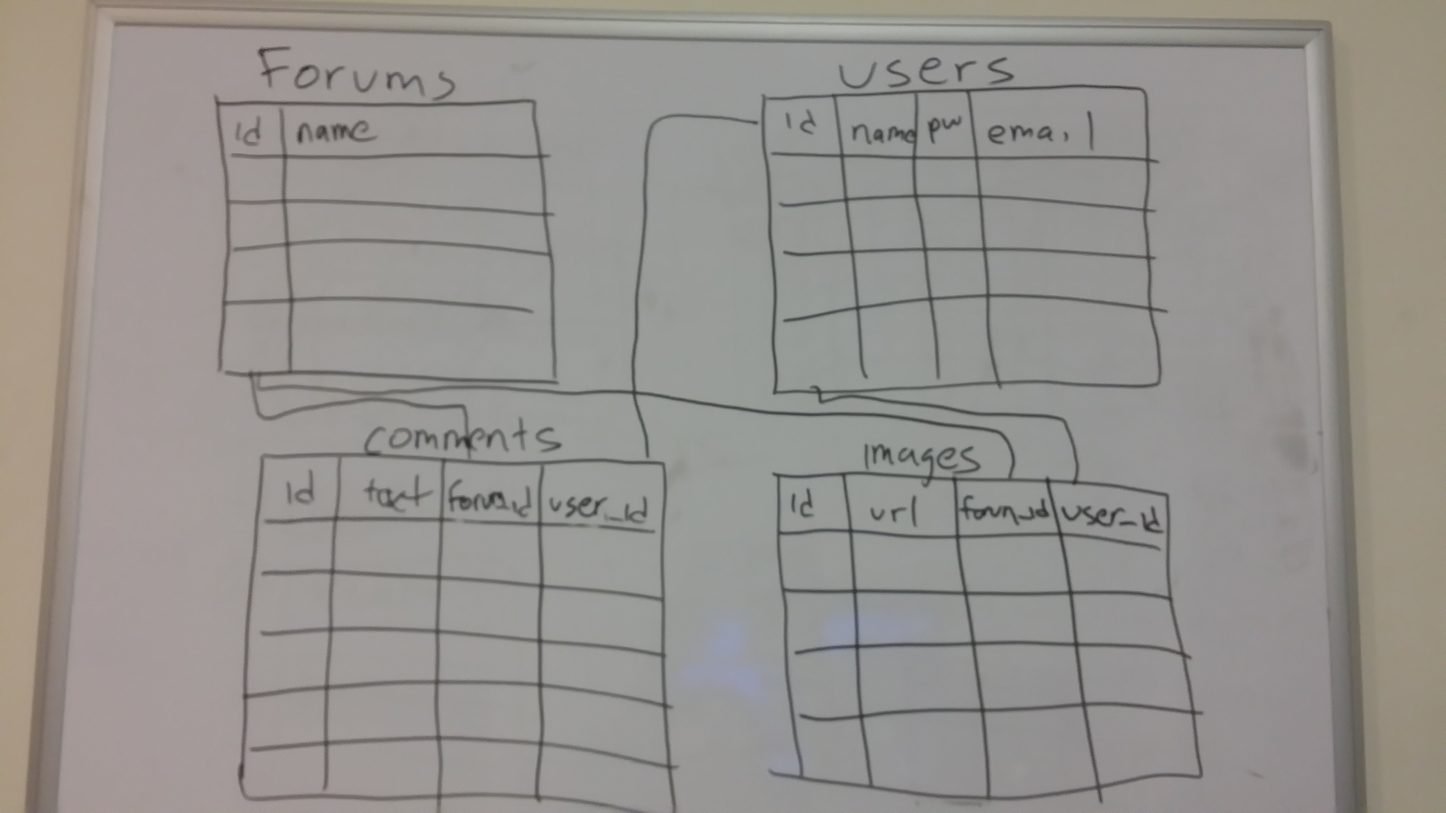
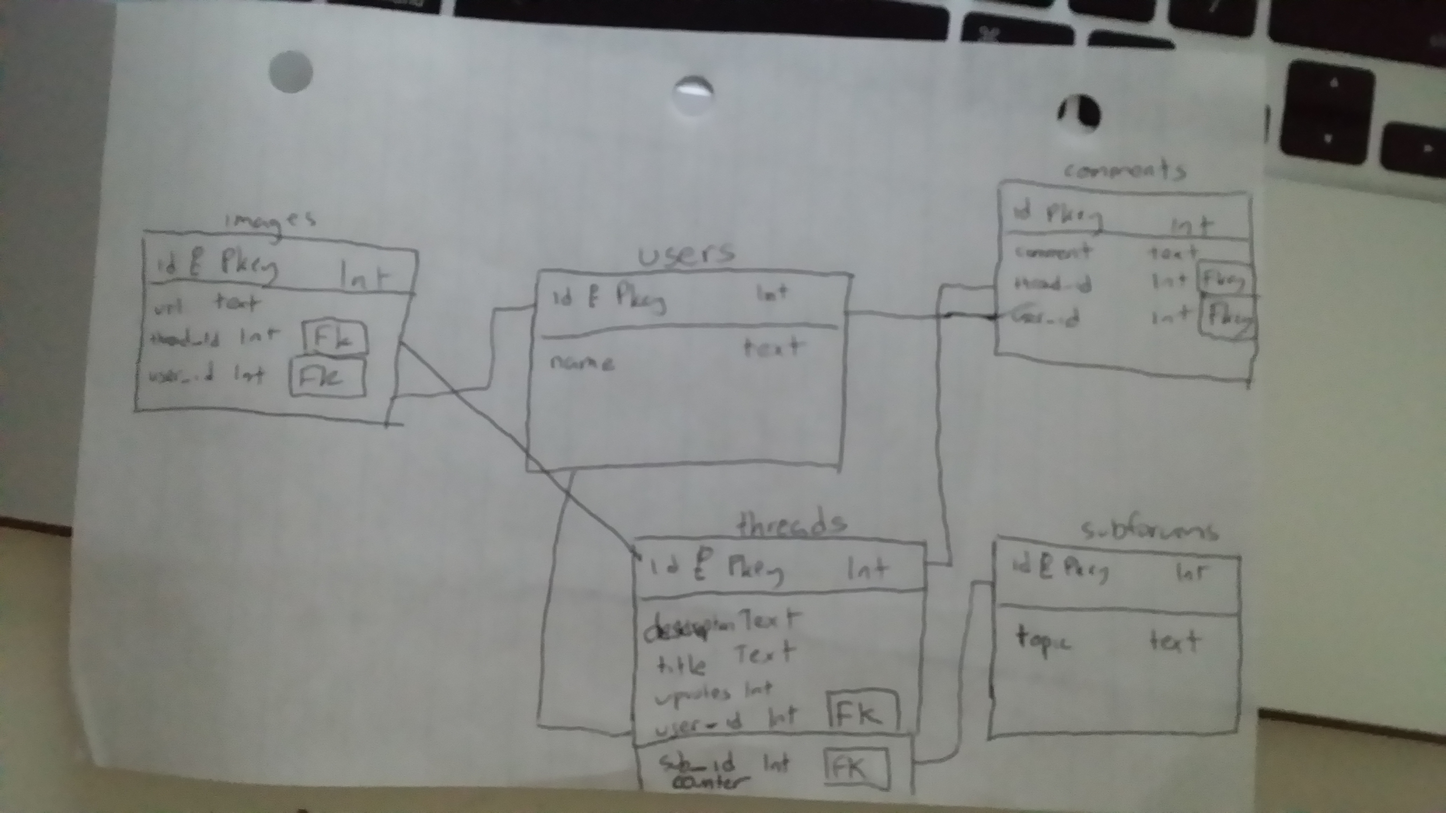
space

diff --git a/public/style.css b/public/style.css
@@ -9,7 +9,6 @@ body{
 	margin-right: auto;
 	margin-top: 5em;
 	background-color: #F3F3F5;
-
 }
 
 .pure-g::after{

diff --git a/README.md b/README.md
@@ -1,6 +1,9 @@
 #Vacation Forum
 
-###This forum is specific to vacation spots.  Any user can create a new thread which will be about a new country and can write comments on existing threads.  Only the master user can edit or delete threads.  There will be a search bar that will search images and users can add the resulting images to a specific forum.  
+###This forum is specific to vacation spots. The forum has subforums which are countries, and threads in each subforums.  Any user can create a new subforum, create a new thread, comment, upvote, add image, and view gallery on each thread.  
+
+
+#### I used the pure framework and font-awesome for come icons.  I first attempted to use googe images api so a user can search images on the page and add them by clicking on them.  However, I failed to learn to use it and tried using twitter but most pictures aren't useful.
 
 
 
